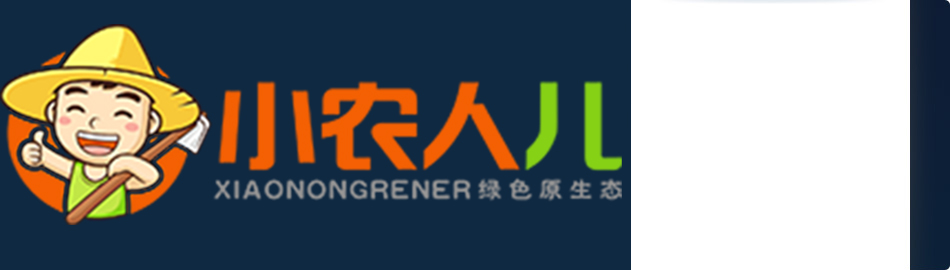
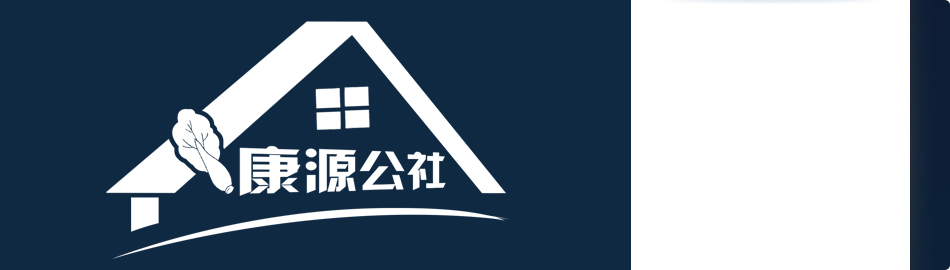
更改logo及样式

diff --git a/xnradmin-web/src/main/webapp/themes/css/login.css b/xnradmin-web/src/main/webapp/themes/css/login.css
@@ -26,12 +26,15 @@ body { margin:0; text-align:center; background:#FFF url(../default/images/login_
 .navList a:hover { text-decoration:underline;}
 
 #login_content { display:block; position:relative;}
+.login_headerContent h3{ font-size:20px; padding-bottom:10px; margin-bottom:10px; text-align:center;padding:50px 0px 10px;}
+#login_content .errorTips{color:red; display:block; text-align:center}
 .login_title { display:block; padding:25px 0 0 38px;}
-.loginForm { display:block; width:240px; padding:40px 20px 0 20px; position:absolute; right:40px;}
+.loginForm { display:block; width:280px; padding:20px 20px 0 20px; position:absolute; right:40px;box-sizing: border-box;}
 .loginForm p { margin:10px 0;}
-.loginForm label { float:left; width:70px; padding:0 0 0 10px; line-height:25px; color:#4c4c4c; font-size:14px;}
-.loginForm input { padding:3px 2px; border-style:solid; border-width:1px; border-color:#80a5c4;}
-.loginForm .login_input {}
+.loginForm label { float:left; width:70px; padding:0px; line-height:25px; color:#4c4c4c; font-size:14px; font-weight:bold;margin-bottom:5px;}
+.loginForm input { padding:8px 2px; border-style:solid; border-width:1px; border-color:#80a5c4;border-radius:5px;box-sizing: border-box;}
+.loginForm .login_input {width:100%;}
+.loginForm .yzmLabel{padding-top:5px;}
 .loginForm .code { float:left; margin-right:5px;}
 .login_bar { padding-left:70px;}
 .login_bar .sub { display:block; width:75px; height:30px; border:none; background:url(../default/images/login_sub.png) no-repeat; cursor:pointer;}
@@ -48,3 +51,5 @@ body { margin:0; text-align:center; background:#FFF url(../default/images/login_
 .login_inner p { margin:10px 0; line-height:150%; font-size:14px; color:#666;}
 
 #login_footer { clear:both; display:block; margin-bottom:20px; padding:10px; border-top:solid 1px #e2e5e8; color:#666; text-align:center;}
+
+

diff --git a/xnradmin-web/src/main/webapp/themes/css/core.css b/xnradmin-web/src/main/webapp/themes/css/core.css
@@ -427,7 +427,7 @@ body { overflow:hidden;}
 #footer {position:absolute; bottom:0; left:0; text-align:center; width:100%; height:21px; padding:0 5px;z-index:-1}
 
 #header .headerNav { height:50px; background-repeat:no-repeat; background-position:100% -50px;}
-#header .logo { float:left; width:250px; height:50px; text-indent:-1000px;}
+#header .logo { float:left; width:300px; height:50px; text-indent:-1000px;}
 
 #header .nav { display:block; height:21px; position:absolute; top:8px; right:0; z-index:31;}
 #header .nav li { float:left; margin-left:-1px; padding:0 10px; line-height:11px; position:relative;}
